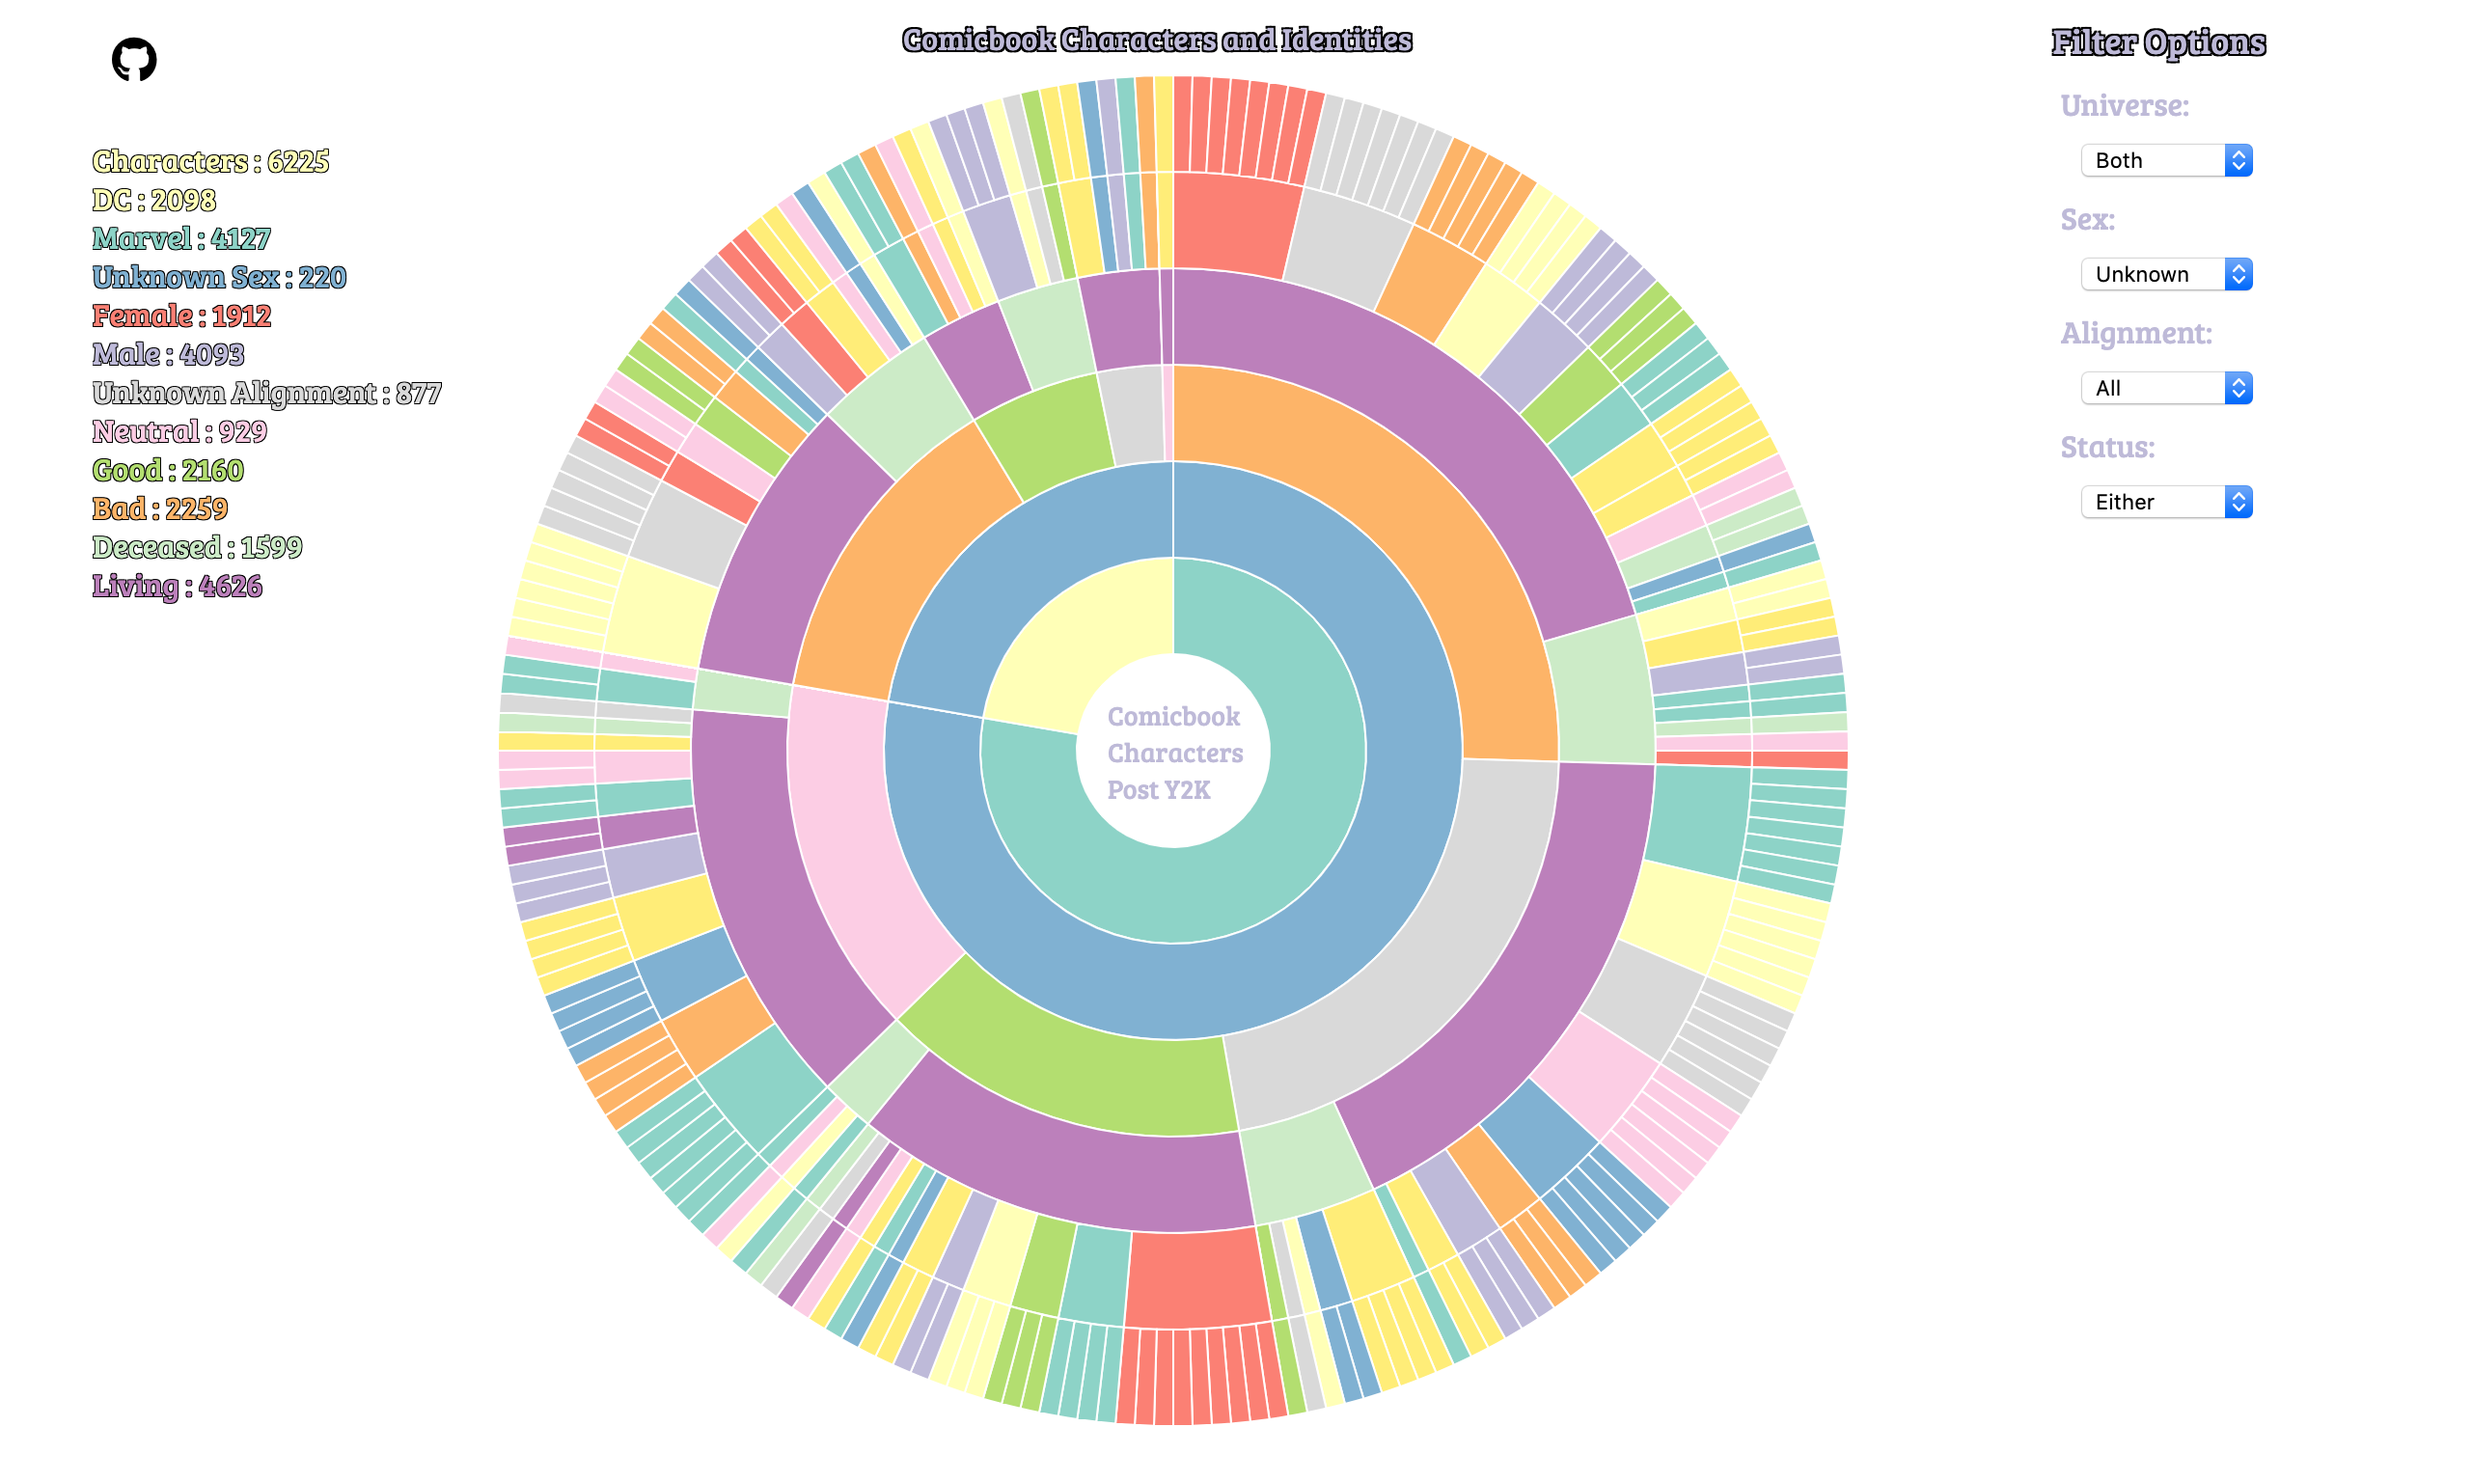
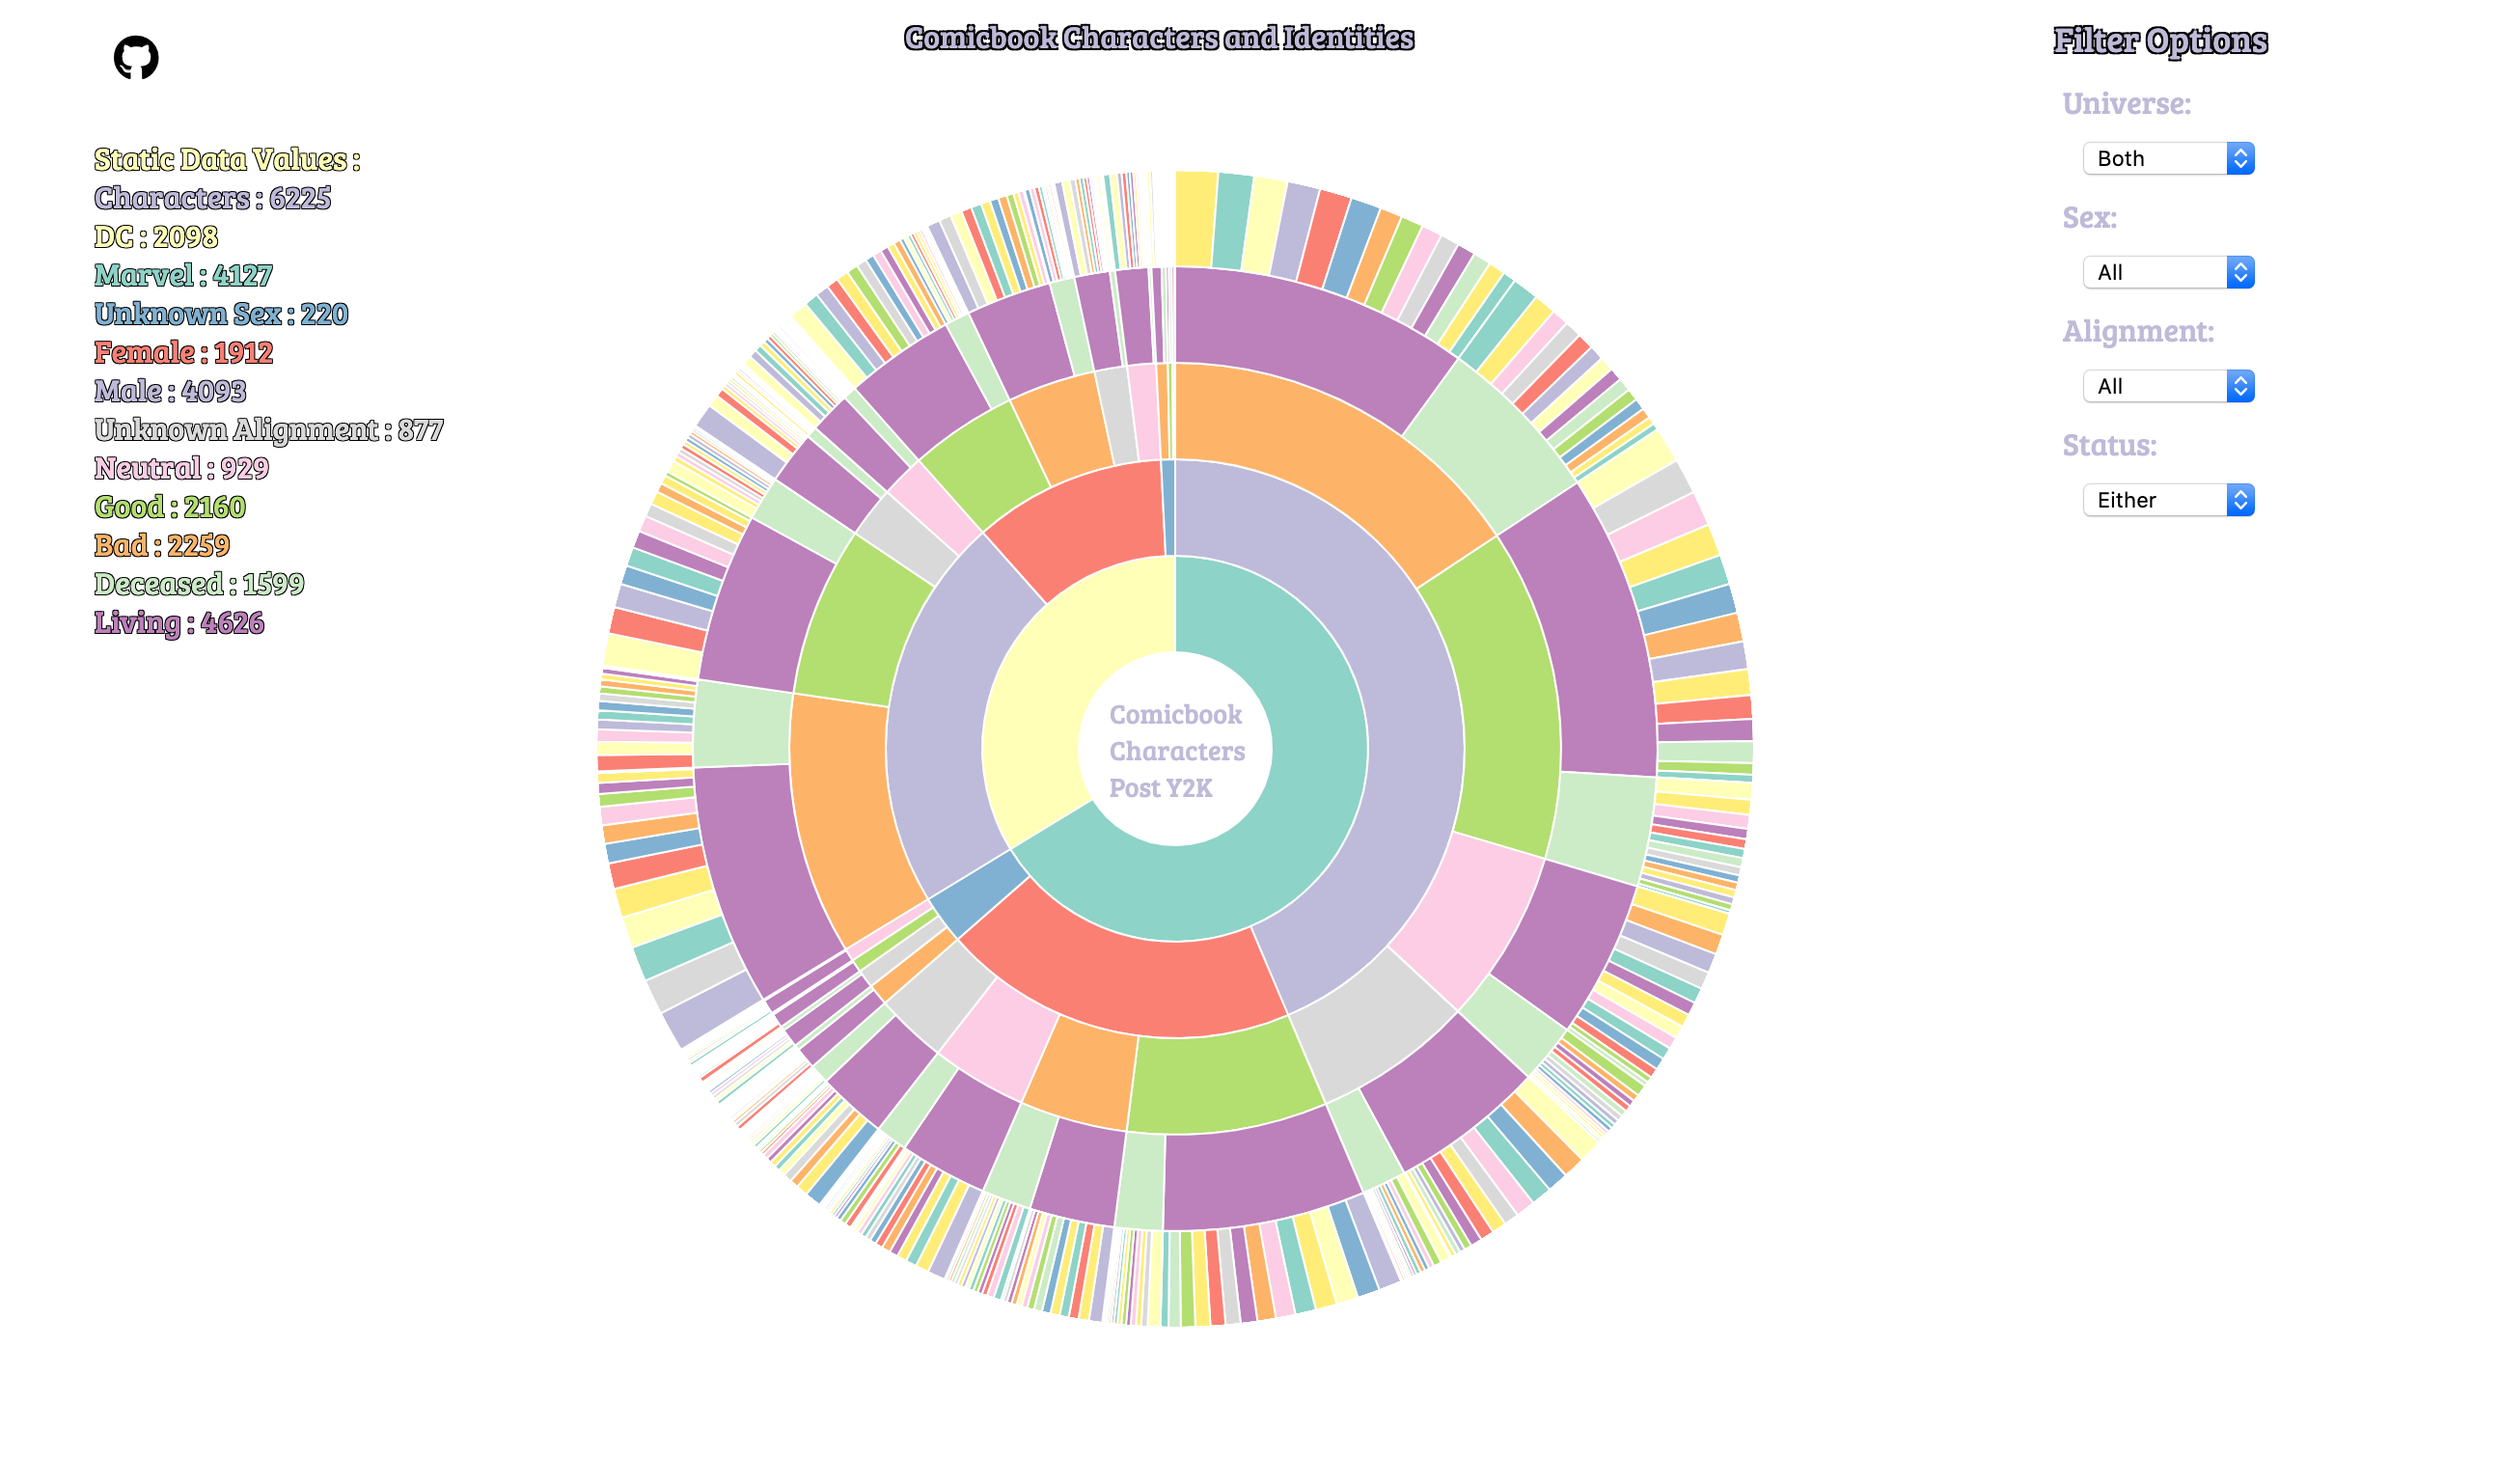
update legend and readme

diff --git a/src/chart.js b/src/chart.js
@@ -113,8 +113,9 @@ const draw = () => {
     // uNames.pop();
     // uNames.shift();
     // uNames.unshift(uNames.pop());
+    uNames.push("Static Data Values")
     uNames = uNames.reverse();
-
+    
 
     // uNames = ["DC", "Marvel", "Male", "Female", "Unkown Sex", 
     //     "Good","Bad", "Neutral", "Unknown Alignment",

diff --git a/index.html b/index.html
@@ -86,7 +86,7 @@
       </section>
       <div id="title" >Comicbook Characters and Identities</div>
       <svg class="svg" id="chart"></svg>
-      <svg id="legend"> </svg>
+      <svg id="legend"></svg>
     </div>
 
     <ul class="logo">

diff --git a/src/build_obj.js b/src/build_obj.js
@@ -1,4 +1,5 @@
 const hashData = {
+    "Static Data Values": "",
     "Characters": 0,
     "DC": customDCData.length,
     "Marvel": customMarvelData.length,
